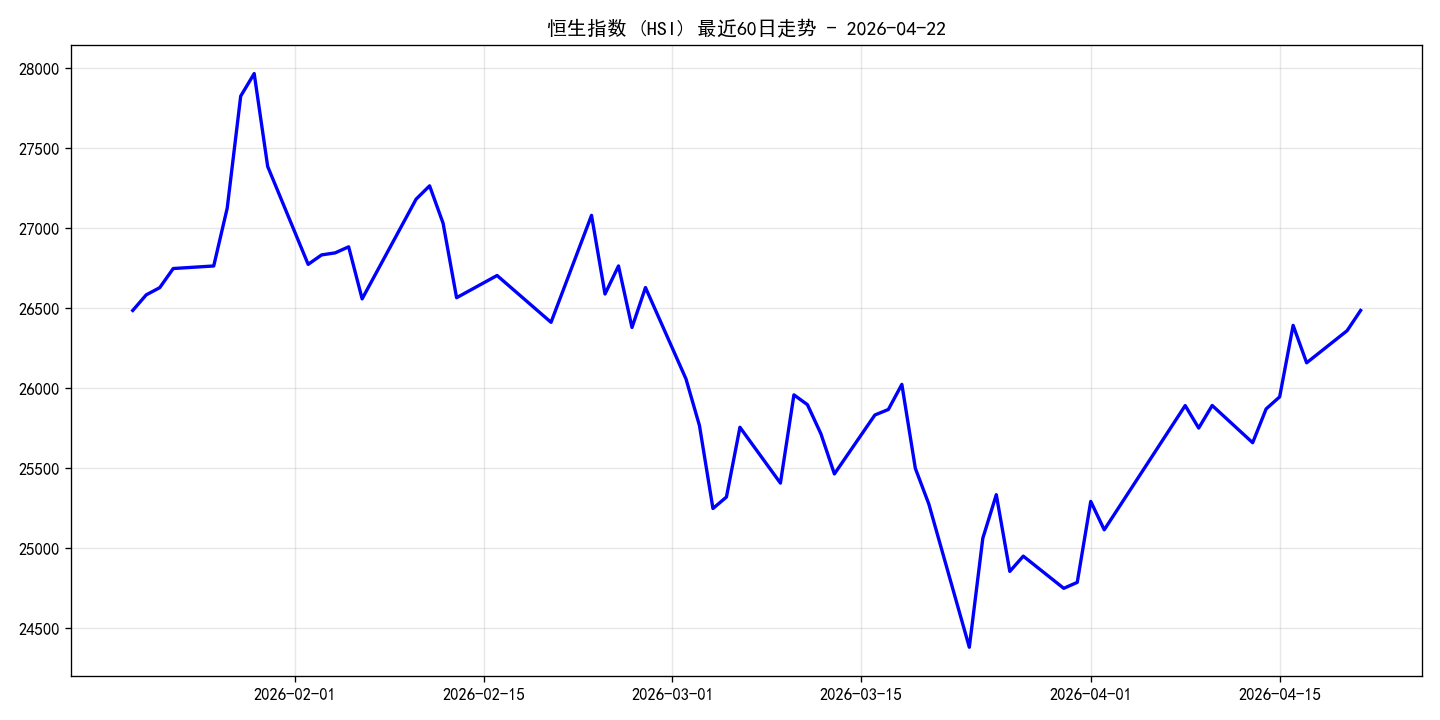
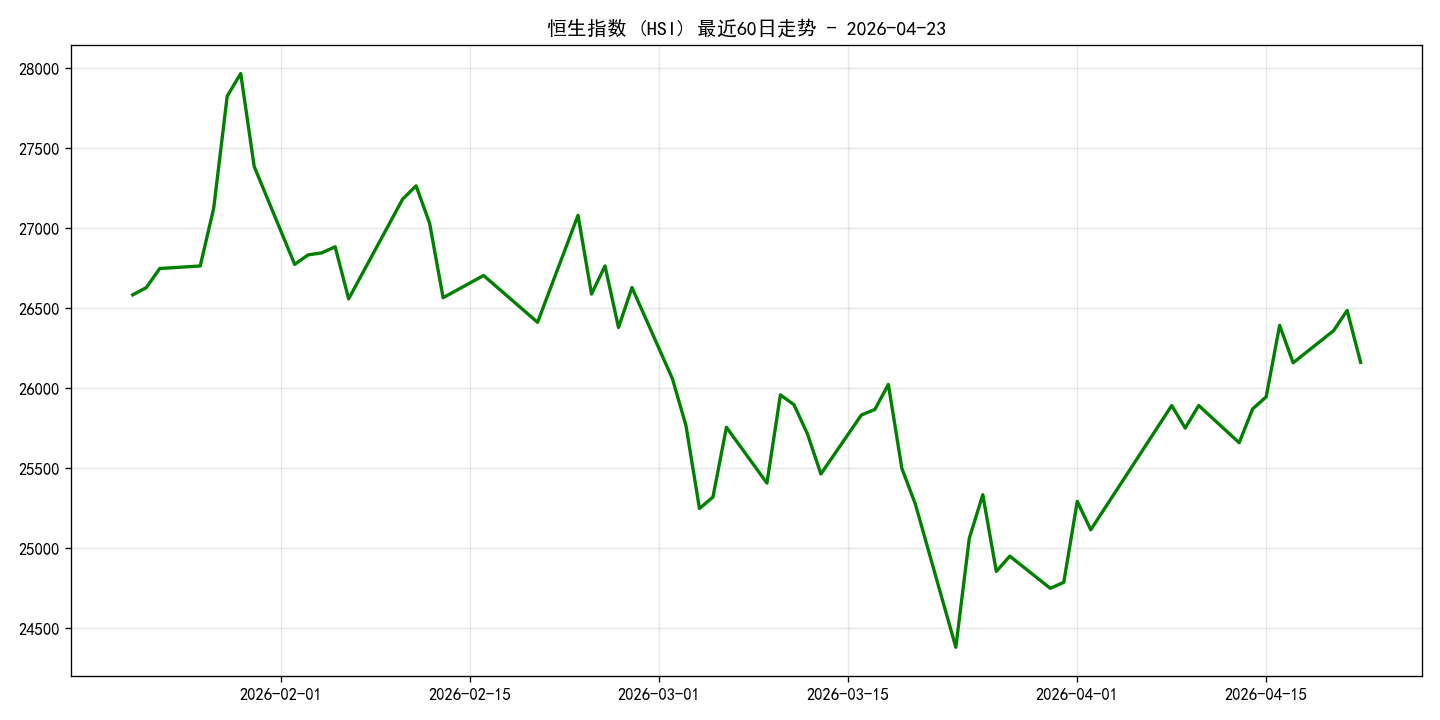
Auto: Daily HK-share Recap Update 2026-04-23

diff --git a/hkshare_recap.html b/hkshare_recap.html
@@ -3,7 +3,7 @@
 <head>
     <meta charset="UTF-8">
     <meta name="viewport" content="width=device-width, initial-scale=1.0">
-    <title>港股收盘复盘 - 2026-04-22</title>
+    <title>港股收盘复盘 - 2026-04-23</title>
     <style>
         body { font-family: sans-serif; padding: 20px; line-height: 1.6; max-width: 800px; margin: 0 auto; background: #f9f9f9; }
         .card { background: white; padding: 20px; border-radius: 12px; shadow: 0 4px 10px rgba(0,0,0,0.1); }
@@ -15,12 +15,12 @@
 </head>
 <body>
     <div class="card">
-        <h1>港股收盘复盘 (2026-04-22)</h1>
+        <h1>港股收盘复盘 (2026-04-23)</h1>
         <div class="stat">
-            恒生指数 (HSI)：26487.48 
-            <span class="up">(+0.48%)</span>
+            恒生指数 (HSI)：26163.24 
+            <span class="down">(-1.22%)</span>
         </div>
-        <p>今日港股市场呈现<strong>上涨</strong>态势。恒指当前点位为 26487.48 点。</p>
+        <p>今日港股市场呈现<strong>下跌</strong>态势。恒指当前点位为 26163.24 点。</p>
         <img src="hkshare_recap_trend.png" alt="Trend">
         <hr>
         <p style="text-align: center; color: #666;">自动生成于收盘后一小时 | 投研助手 Q</p>
